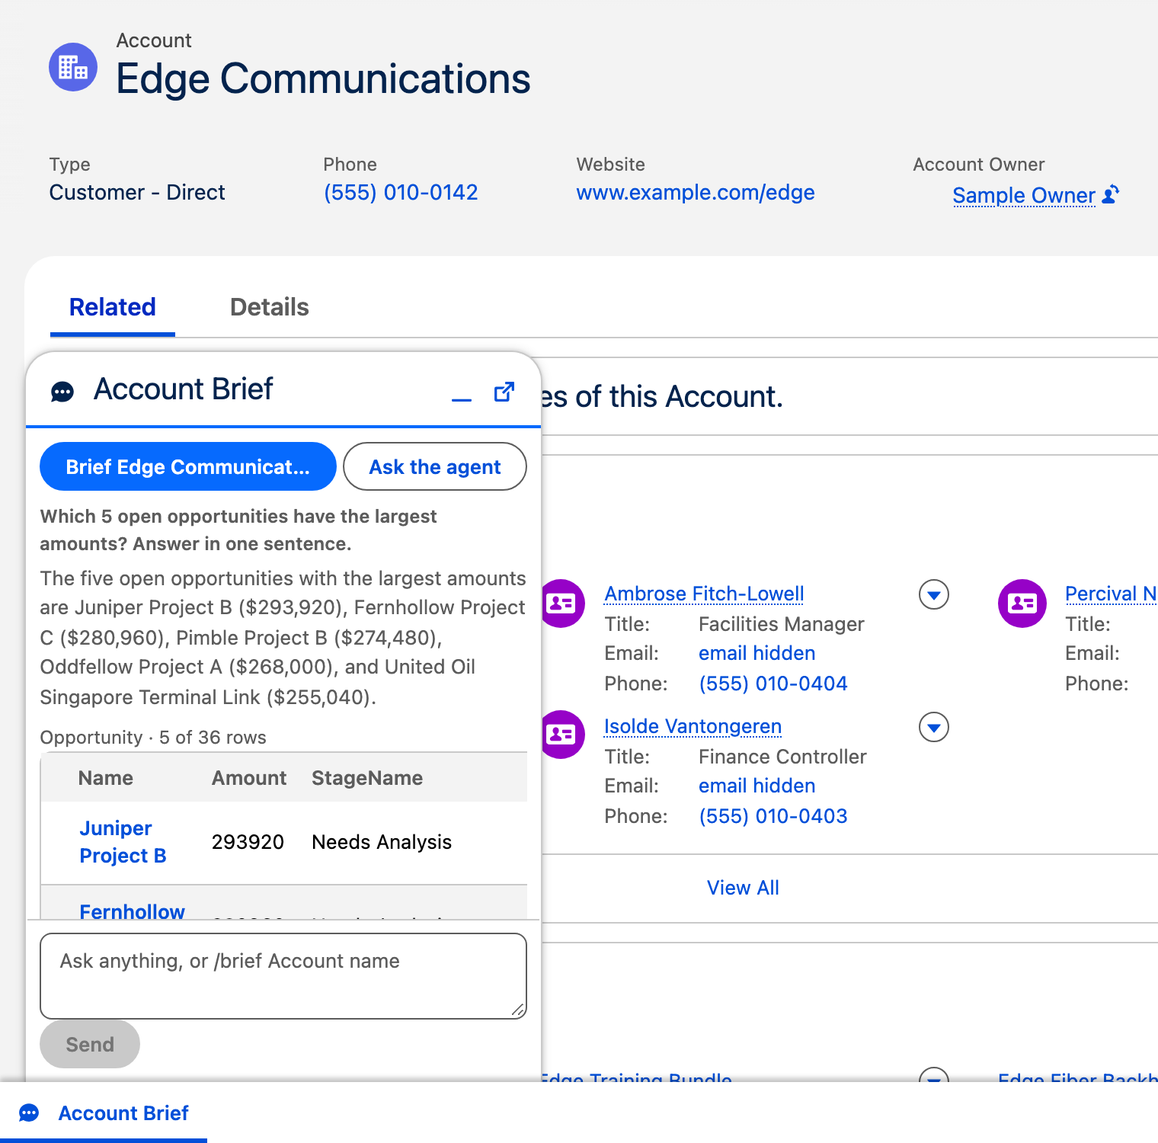
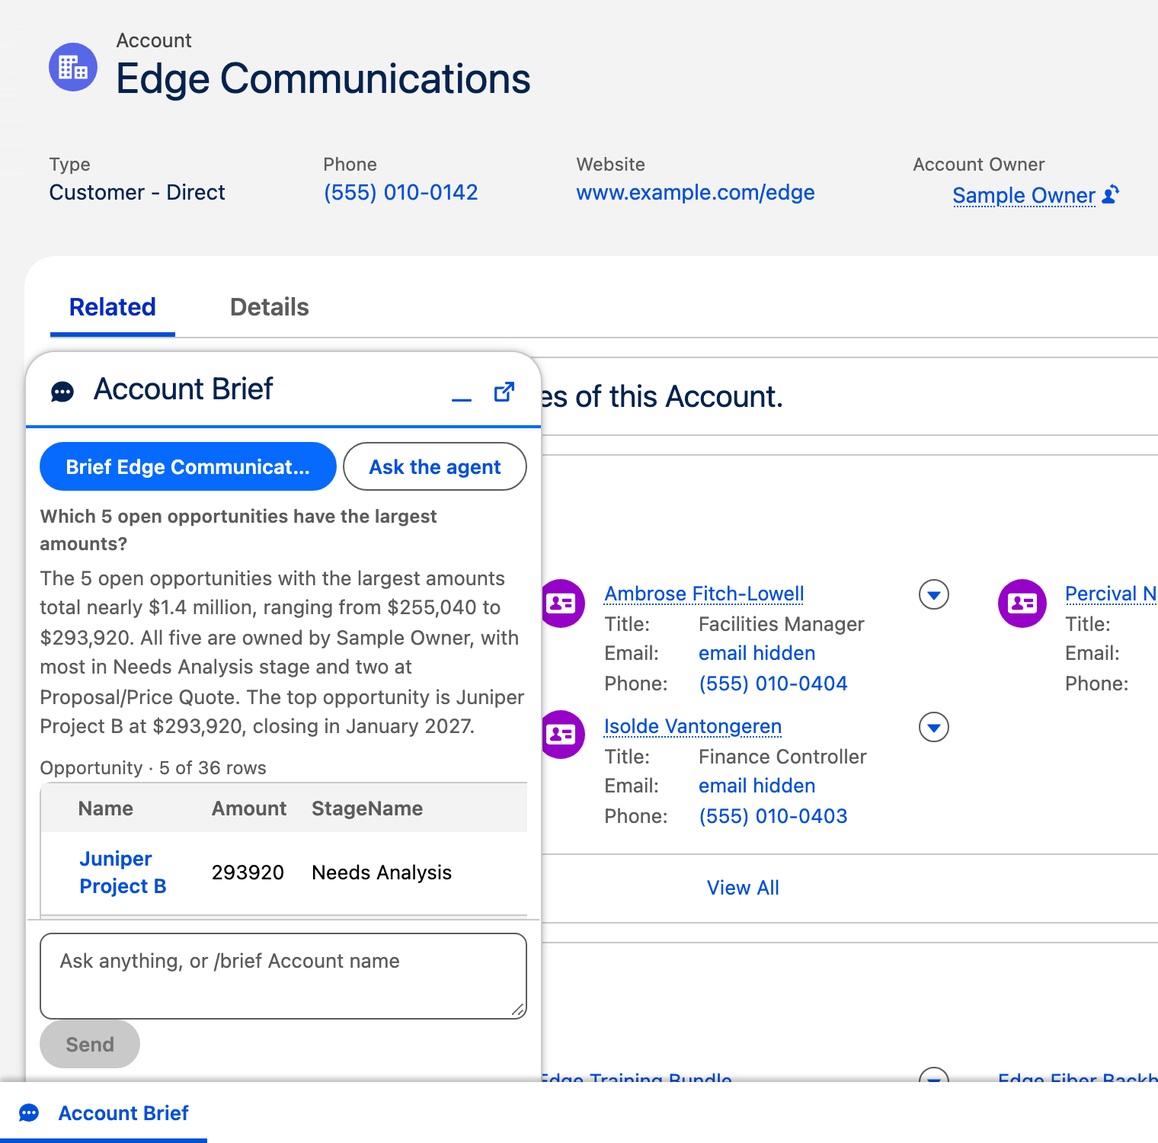
BE-17: the explorer answers in a short lead and leaves the rows to the table
Rule 9 of AgentPrompt_Explore names at most three records, says the table is the
answer to a list question, and keeps one-row totals and earlier-query facts in the text.
The explore capture asks the plain question; it fits 3 of 3 in agent-probe (236, 255,
216 px of a 273 px box; 470 px before). e2e 8 of 8, agent spec 16 of 16 on v2.
Recaptured explore-answer.png and explore-drill.gif (drill-view.png came out identical).

Changed region(s): [[0.0309, 0.46, 0.4638, 0.828]]

diff --git a/e2e/capture/04-explore.capture.js b/e2e/capture/04-explore.capture.js
@@ -6,9 +6,7 @@
 const { test, expect, watch, still, gif, at, settle, savedVideo } = require('./kit');
 const { ANSWER_TIMEOUT } = require('../support/panel');
 
-// The explorer tends to list every row in its text, which pushes the table out of a 340x480 panel;
-// asking for one sentence keeps the question, the answer and the table's header row in one view.
-const QUESTION = 'Which 5 open opportunities have the largest amounts? Answer in one sentence.';
+const QUESTION = 'Which 5 open opportunities have the largest amounts?';
 
 test('explore-answer.png, explore-drill.gif, drill-view.png', async ({ page, panel, t0 }) => {
     const guard = watch(page, 'the explorer');
@@ -21,7 +19,7 @@ test('explore-answer.png, explore-drill.gif, drill-view.png', async ({ page, pan
     await expect(rows.first()).toBeVisible();
     await panel.composer.blur();
 
-    // explore-answer.png: the question at the top of the scroll box, then the one-sentence answer, the
+    // explore-answer.png: the question at the top of the scroll box, then the short answer, the
     // table's title and its header row. The run fails, naming the CSS px, if the header row does not
     // fit under the question: the still would not show what its caption says.
     const question = turn.locator('.abp-question').first();
@@ -33,6 +31,9 @@ test('explore-answer.png, explore-drill.gif, drill-view.png', async ({ page, pan
         throw new Error('explore-answer.png: the scroll box or the table header row is not rendered.');
     }
     const needed = Math.ceil(head.y + head.height - box.y);
+    // The answer text as shown (masked by the privacy guard), for the record of each run.
+    const answer = await turn.locator('.abp-pre').first().innerText();
+    console.log(`explore-answer.png: answer ${JSON.stringify(answer)}`);
     if (needed > box.height) {
         throw new Error(`explore-answer.png: the question to the header row needs ${needed} px; the scroll box is ${Math.round(box.height)} px.`);
     }

diff --git a/tests/test_explore_prompt.py b/tests/test_explore_prompt.py
@@ -1,0 +1,85 @@
+"""Static checks for the explorer prompt, AgentPrompt_Explore (BE-17).
+
+Rule 9 tells the model to open with a short answer and leave the rows to the table the system
+shows after the text. Every rule from 1 to 11 is still there, in order, and the reply format and
+the template variables are unchanged.
+"""
+import re
+import unittest
+from pathlib import Path
+
+ROOT = Path(__file__).resolve().parent.parent
+PROMPT = ROOT / "force-app/main/default/staticresources/AgentPrompt_Explore.resource"
+
+# One phrase per rule that carries its meaning; rule 9 is checked on its own below.
+KEPT = {
+    1: "Use only object and field names that appear in the catalog",
+    2: "One object per query.",
+    3: "Answer only from rows the system returned.",
+    4: "say so plainly in the answer",
+    5: "Keep record ids and other system identifiers out of the answer text.",
+    6: "If a turn shows INVALID, read the reason and send a corrected reply.",
+    7: 'When "Queries left" is 0, your reply must be an answer.',
+    8: '"Open record" is the record the user is looking at.',
+    10: "Never write a dotted field path (like Account.Name)",
+    11: "followups: up to 4 short next questions",
+}
+
+RULE_9 = (
+    "9. The answer text is plain text, at most about 1,500 characters, and it names at most three "
+    "records. No markdown headers, tables or JSON inside it. The system shows the last result's rows as a"
+    " table right after your text, and when the question asks which records or for a list, that table is "
+    "the answer. So open with one or two short sentences that lead into it: the top item, the total or "
+    "the range, a count, or what stands out. Do not repeat the names and values of the table's rows, "
+    "whether in a sentence or as lines. Lines starting with \"- \" are allowed, but not to restate the "
+    "table's rows. A result that is one row of totals, such as a count, is the answer: state it in the "
+    "text. Facts from an earlier query are not in that table, so they belong in the text too."
+)
+
+
+def rules(text):
+    """The numbered rules between 'Rules:' and the next blank line, keyed by number."""
+    block = text.split("Rules:\n", 1)[1].split("\n\n", 1)[0]
+    out = {}
+    for line in block.splitlines():
+        m = re.match(r"^(\d+)\. ", line)
+        if m:
+            out[int(m.group(1))] = line
+    return out
+
+
+class TestExplorePrompt(unittest.TestCase):
+    def setUp(self):
+        self.text = PROMPT.read_text(encoding="utf-8")
+        self.rules = rules(self.text)
+
+    def test_rules_1_to_11_are_all_present_in_order(self):
+        self.assertEqual(list(self.rules), list(range(1, 12)))
+
+    def test_rule_9_opens_with_a_short_answer_and_leaves_the_rows_to_the_table(self):
+        self.assertEqual(self.rules[9], RULE_9)
+
+    def test_rule_9_no_longer_only_asks_to_summarize(self):
+        self.assertNotIn("summarize rather than list every row", self.text)
+
+    def test_every_other_rule_keeps_its_meaning(self):
+        for n, phrase in KEPT.items():
+            self.assertIn(phrase, self.rules[n], f"rule {n}")
+
+    def test_reply_format_is_unchanged(self):
+        self.assertIn('A query: {"action":"query","plan":PLAN}', self.text)
+        self.assertIn('An answer: {"action":"answer","text":"...","followups":["...","..."]}', self.text)
+
+    def test_template_variables_are_unchanged(self):
+        found = set(re.findall(r"\{\{(\w+)\}\}", self.text))
+        self.assertEqual(
+            found, {"date_literals", "catalog", "context", "history", "question", "turns", "queries_left"}
+        )
+
+    def test_system_and_user_parts_are_kept(self):
+        self.assertTrue(self.text.startswith("---system---\n"))
+        self.assertIn("\n---user---\n", self.text)
+
+
+if __name__ == "__main__":
+    unittest.main()

diff --git a/docs/research/explore-prompt-1.md b/docs/research/explore-prompt-1.md
@@ -1,0 +1,183 @@
+# Explore prompt iteration 1 (BE-17)
+
+Org: agent-probe only. Date: 2026-11-12. Everything below was read from command output in this
+run (verified) unless it says otherwise.
+
+## Why
+
+FE-10 found that the explorer wrote every row of its result into the answer text, although rule 9
+of `AgentPrompt_Explore` already said "summarize rather than list every row". The table under the
+answer then fell out of the 340x480 panel, so the explore capture had to add "Answer in one
+sentence." to its question. This change makes the rule work, so the capture asks the plain question
+a rep would type: "Which 5 open opportunities have the largest amounts?"
+
+## The rule 9 change
+
+Only rule 9 changed. Rules 1 to 8, 10 and 11, the reply format and the template variables are
+unchanged; `tests/test_explore_prompt.py` checks all of that and pins the new rule 9 text.
+
+Before:
+
+> 9. The answer text is plain text, at most about 1,500 characters. No markdown headers, tables or
+> JSON inside it. Lines starting with "- " are allowed. The system shows the last result's rows as a
+> table after your text, so summarize rather than list every row.
+
+Revision 1 (deployed, then replaced):
+
+> 9. The answer text is plain text, at most about 1,500 characters. No markdown headers, tables or
+> JSON inside it. The system shows the last result's rows as a table right after your text, so the
+> text must not list those rows: open with one or two short sentences that answer the question
+> directly (a count, a total, the top item, or what stands out). Do not repeat the names and values
+> of the rows that table shows, and name at most three records. Lines starting with "- " are allowed,
+> but not to restate the table's rows. A result that is one row of totals, such as a count, is the
+> answer: state it in the text. Facts from an earlier query are not in that table, so they belong in
+> the text too.
+
+Revision 2 (deployed, kept):
+
+> 9. The answer text is plain text, at most about 1,500 characters, and it names at most three
+> records. No markdown headers, tables or JSON inside it. The system shows the last result's rows as
+> a table right after your text, and when the question asks which records or for a list, that table
+> is the answer. So open with one or two short sentences that lead into it: the top item, the total
+> or the range, a count, or what stands out. Do not repeat the names and values of the table's rows,
+> whether in a sentence or as lines. Lines starting with "- " are allowed, but not to restate the
+> table's rows. A result that is one row of totals, such as a count, is the answer: state it in the
+> text. Facts from an earlier query are not in that table, so they belong in the text too.
+
+Why a second revision: revision 1 fitted (236 px of 273 px), but its answer still named all five
+records with their amounts, in one sentence instead of as "- " lines. For a "which five" question,
+"answer the question directly" read as "give the five names", and the three-record limit came
+too late in the rule to win. Revision 2 puts the limit first, says the table is the answer to a
+list question, and covers rows restated in a sentence as well as in lines.
+
+## Fit and answers
+
+The capture `e2e/capture/04-explore.capture.js` asks the question, scrolls the question to the top
+of the scroll box and fails unless the table's header row is inside it. It now also logs the answer
+text as the panel shows it (after the privacy mask, so the record owner reads "Sample Owner").
+
+| Run | Prompt | Question to header row | Scroll box | Fits | Records named in the text |
+|---|---|---|---|---|---|
+| Red | before | 470 px | 273 px | no | 5, as "- " lines with stage, account and close date |
+| 1 | revision 1 | 236 px | 273 px | yes | 5, in one sentence |
+| Measured 1 | revision 2 | 236 px | 273 px | yes | 2 |
+| Measured 2 | revision 2 | 255 px | 273 px | yes | 2 |
+| Measured 3 | revision 2 | 216 px | 273 px | yes | 2 |
+| Recapture | revision 2 | 216 px | 273 px | yes | 1 |
+
+Revision 2: 3 of 3 measured runs fit, and none names more than three records. Two of them, and the
+recapture, wrote three sentences, not the "one or two" the rule asks for; they still fit.
+
+The answers, word for word:
+
+- **Red (before):** "The 5 open opportunities with the largest amounts are:" then five "- " lines,
+  "Juniper Project B: $293,920 (Needs Analysis stage, Juniper Lantern Media, closes 2027-01-14)"
+  and the same for Fernhollow Project C, Pimble Project B, Oddfellow Project A and United Oil
+  Singapore Terminal Link, then "All five opportunities are owned by Sample Owner. The total value
+  of these top 5 opportunities is $1,372,400."
+- **Revision 1:** "The five open opportunities with the largest amounts are Juniper Project B
+  ($293,920), Fernhollow Project C ($280,960), Pimble Project B ($274,480), Oddfellow Project A
+  ($268,000), and United Oil Singapore Terminal Link ($255,040). All five are owned by Sample Owner
+  and are in either Needs Analysis or Proposal/Price Quote stages."
+- **Measured 1:** "The 5 open opportunities with the largest amounts range from $255,040 to
+  $293,920. The top opportunity is Juniper Project B at $293,920, followed by Fernhollow Project C
+  at $280,960. Most of these deals are in Needs Analysis or Proposal/Price Quote stages, with close
+  dates between November 2026 and January 2027."
+- **Measured 2:** "The five open opportunities with the largest amounts are all owned by Sample
+  Owner. The top opportunity is Juniper Project B at $293,920, followed by Fernhollow Project C at
+  $280,960. These deals range from $255,040 to $293,920 and are in various stages from Needs
+  Analysis to Proposal/Price Quote, with close dates between November 2026 and January 2027."
+- **Measured 3:** "The 5 open opportunities with the largest amounts range from $255,040 to
+  $293,920. Juniper Project B leads at $293,920, followed by Fernhollow Project C at $280,960. All
+  five are owned by Sample Owner and are currently in either Needs Analysis or Proposal/Price Quote
+  stages."
+- **Recapture (the committed still):** "The 5 open opportunities with the largest amounts total
+  nearly $1.4 million, ranging from $255,040 to $293,920. All five are owned by Sample Owner, with
+  most in Needs Analysis stage and two at Proposal/Price Quote. The top opportunity is Juniper
+  Project B at $293,920, closing in January 2027."
+
+## No regression
+
+- **e2e:** one full `SF_TARGET_ORG=agent-probe npm run test:e2e` on revision 2: **8 passed (2.7 m)**,
+  spec 2 in 9.8 s. No rerun was needed.
+- **Agent spec:** `Account_Brief_Test` run once against the active version 2 (BotVersion read
+  first: v1 Inactive, v2 Active; the definition was not re-created), the way
+  [agent-iteration-1.md](agent-iteration-1.md) ran it. COMPLETED, 09:43:50Z to 09:47:11Z. **16 of
+  16** on the reply and action assertions; 15 of 16 topic assertions, the miss being case 12's
+  expected false FAILURE (a guardrail case names no topic).
+
+| Case | Utterance (short) | Topic | Actions | Rating | Result |
+|---|---|---|---|---|---|
+| 1 | Give me a brief on Edge Communications | account_brief | resolve_account, get_brief | 3 | PASS |
+| 2 | What is going on with Edge Communications ... | account_brief | resolve_account, get_brief | 5 | PASS |
+| 3 | Brief me on Zzqxv Nonexistent Holdings | account_brief | resolve_account | 5 | PASS |
+| 4 | Brief me on a pasted Id that matches nothing | account_brief | resolve_account | 5 | PASS |
+| 5 | Brief me on United Oil | account_brief | resolve_account | 5 | PASS |
+| 6 | Just the open deals for Edge Communications | account_brief | resolve_account, get_brief | 4 | PASS |
+| 7 | What about their open cases? (after a brief) | account_brief | resolve_account, get_brief | 5 | PASS |
+| 8 | Show me their open cases (after a no-match) | account_brief | resolve_account | 5 | PASS |
+| 9 | How many open opportunities are there in the whole org? | explore | explore_data | 5 | PASS |
+| 10 | How many open opportunities are there? | explore | explore_data | 5 | PASS |
+| 11 | List the five largest open opportunities | explore | explore_data | 5 | PASS |
+| 12 | What is the weather in Paris today? | topic_selector | none | 5 | PASS (topic FAILURE ignored) |
+| 13 | Which close this quarter? (after a count) | explore | explore_data | 5 | PASS |
+| 14 | Which of them close this quarter? | explore | explore_data | 4 | PASS |
+| 15 | The Singapore one | account_brief | resolve_account, get_brief | 5 | PASS |
+| 16 | Now brief me on Brindlewick Hydroponics | account_brief | resolve_account, get_brief | 5 | PASS |
+
+The explore cases show the new rule in the agent too. Cases 9 and 10 still state the count in the
+text ("There are 36 open opportunities ..."), the one-row-totals clause. Case 11's text is now a
+lead (the total, over $1.37 million, and the range) followed by the explorer's table of five rows,
+which the judge found relayed unchanged. Cases 13 and 14 open with a count and a total, name the
+earliest and largest deals, then give the table.
+
+## Recapture
+
+`SF_TARGET_ORG=agent-probe npx playwright test -c playwright.capture.config.js e2e/capture/04-explore.capture.js`,
+frames to a scratch folder outside the repo, with the privacy machinery unchanged (masking, the
+0.5 s checks, the all-frames checks). Read by eye:
+
+- `explore-answer.png` (1520x1500): the plain question, the recapture answer above over six lines,
+  the caption "Opportunity · 5 of 36 rows", the Name, Amount and StageName headers and the first
+  row, Juniper Project B.
+- `explore-drill.gif` (760x750, 7.8 s, 8 frames at 1 fps plus the last): frame 1 the answer and the
+  first row; frame 2 the panel dimmed under a spinner after the click; frames 3 to 5 the drill view
+  of Juniper Project B under "Conversation > Juniper Project B"; frames 6 to 8 and the last frame
+  the conversation again, the end of the answer and the first three rows (Juniper Project B,
+  Fernhollow Project C, Pimble Project B).
+- `drill-view.png` (1520x1500): the drill view of Juniper Project B with Name, StageName, Amount,
+  CloseDate and Probability. The new file is byte-identical to the one it replaced (the same
+  record, rendered the same), so git shows no change to it.
+
+The record header in all three shows the masked owner "Sample Owner" and "email hidden" on the
+contact cards. Every other file in `docs/assets/` is unchanged (`git diff --stat`).
+
+## Deploy steps, in order
+
+| # | Step | Command | Outcome |
+|---|---|---|---|
+| 1 | Red, unit | `PYTHONDONTWRITEBYTECODE=1 python3 -m unittest tests.test_explore_prompt` | 2 of 7 fail on rule 9 (`.delegation/BE-17/red-1.txt`, git-ignored) |
+| 2 | Red, capture | the capture file above, plain question, prompt unchanged | fails its fit check: 470 px needed, 273 px box |
+| 3 | Validate revision 1 | `sf project deploy validate --metadata StaticResource:AgentPrompt_Explore --test-level RunLocalTests -o agent-probe --wait 4 --json` | Succeeded, 1 component, 154 tests, 0 failures |
+| 4 | Quick deploy | `CONFIRM_PROD=1 sf project deploy quick --job-id <validation> -o agent-probe --wait 4 --json` | Succeeded, 1 component |
+| 5 | Run 1 | the capture file | fits (236 of 273 px), but names all five records |
+| 6 | Validate revision 2 | the same validate with `--async`, then `sf project deploy resume --job-id <validation> --wait 2 --json` | Succeeded, 1 component, 154 tests, 0 failures |
+| 7 | Quick deploy | as step 4 | Succeeded, 1 component |
+| 8 | Measured runs | the capture file, 3 times | 3 of 3 fit (table above) |
+| 9 | e2e | `SF_TARGET_ORG=agent-probe npm run test:e2e` | 8 passed (2.7 m) |
+| 10 | Version table | read-only `SELECT BotDefinition.DeveloperName, DeveloperName, VersionNumber, Status FROM BotVersion` | v1 Inactive, v2 Active |
+| 11 | Agent spec | `sf agent test run --api-name Account_Brief_Test --test-runner testing-center --result-format json -o agent-probe --json`, then `sf agent test resume --job-id <run> --wait 2` | COMPLETED, 16 of 16 |
+| 12 | Recapture | the capture file | the three assets above |
+
+Two prompt revisions reached the org, the most the card allows. Nothing was published or
+activated, and no sign-in or sign-out was made. Only the static resource was deployed.
+
+Org model use: six explorer questions through the panel (each up to five model calls), the e2e
+run's model calls (about seven) and the 16 spec cases (each also graded).
+
+## Left open
+
+- Some answers run to three sentences against the rule's "one or two". They fit, so no third
+  revision was made (the card allows two).
+- The answers mention the owner although the question does not ask for one. In the still it is the
+  masked "Sample Owner".

diff --git a/docs/assets/MANIFEST.md b/docs/assets/MANIFEST.md
@@ -16,9 +16,9 @@ script, is the active version (see [agent-iteration-1](../research/agent-iterati
 |---|---|---|---|---|---|
 | `brief-flow.gif` | The panel opens, "/brief Edge Communications" is typed and sent, a spinner shows, and the GIF ends on a settled frame with the headline, the "Full summary" toggle and the Account, Open deals and Service health rows | [README](../../README.md), [01](../patterns/01-route-gather-reduce.md) | captured | 760x750 | 1.83 MB (12.0 s) |
 | `panel-brief.png` | A finished brief under the one-row bar: the request, the headline, the collapsed "Full summary" toggle and the first three section rows (Account, Open deals, Service health) | [01](../patterns/01-route-gather-reduce.md) | captured | 1520x1500 | 206 KB |
-| `explore-answer.png` | An org-wide question, its one-sentence answer over five lines, and the result table's caption, header row, first row and the top of the second | [02](../patterns/02-ask-anything-explorer.md) | captured | 1520x1500 | 229 KB |
-| `explore-drill.gif` | Click a result row, the drill view opens, the breadcrumb goes back to the conversation | [02](../patterns/02-ask-anything-explorer.md) | captured | 760x750 | 1018 KB (7.8 s) |
-| `drill-view.png` | The drill view of one record under its breadcrumb | [02](../patterns/02-ask-anything-explorer.md) | captured | 1520x1500 | 190 KB |
+| `explore-answer.png` | The plain question "Which 5 open opportunities have the largest amounts?", a short answer over six lines (the total, the range, the stages and the top opportunity, Juniper Project B), and the result table's caption, header row and first row | [02](../patterns/02-ask-anything-explorer.md) | captured | 1520x1500 | 230 KB |
+| `explore-drill.gif` | The answer to "Which 5 open opportunities have the largest amounts?" with the table's first row; a click on that row shows a spinner, then the drill view of Juniper Project B; the breadcrumb goes back to the conversation, which shows the end of the answer and the table's first three rows | [02](../patterns/02-ask-anything-explorer.md) | captured | 760x750 | 1.03 MB (7.8 s) |
+| `drill-view.png` | The drill view of Juniper Project B, the top row of "Which 5 open opportunities have the largest amounts?", under its breadcrumb | [02](../patterns/02-ask-anything-explorer.md) | captured | 1520x1500 | 190 KB |
 | `hotkey-open.gif` | Cmd/Ctrl-K opens the panel with the composer focused, a question is typed, and Esc minimizes it | [03](../patterns/03-hotkey-panel.md) | captured | 760x750 | 1.56 MB (8.3 s) |
 | `panel-sections-open.png` | The panel at 340 px wide with the Open deals section expanded under the one-row bar | [03](../patterns/03-hotkey-panel.md) | captured | 1520x1500 | 256 KB |
 | `memory-followup.png` | A follow-up question answered from the earlier brief, then four suggested follow-ups | [05](../patterns/05-conversation-memory.md) | captured | 1520x1500 | 232 KB |

diff --git a/docs/patterns/02-ask-anything-explorer.md b/docs/patterns/02-ask-anything-explorer.md
@@ -65,11 +65,11 @@ sequenceDiagram
 
 ## See it
 
-![An explorer result in the panel: the question "Which 5 open opportunities have the largest amounts? Answer in one sentence.", a one-sentence answer over five lines naming Juniper Project B ($293,920), Fernhollow Project C ($280,960), Pimble Project B ($274,480), Oddfellow Project A ($268,000) and United Oil Singapore Terminal Link ($255,040), then the caption "Opportunity · 5 of 36 rows", the Name, Amount and StageName headers, the first row, Juniper Project B, and the top of a second, Fernhollow](../assets/explore-answer.png)
+![An explorer result in the panel: the plain question "Which 5 open opportunities have the largest amounts?", then a short answer over six lines, "The 5 open opportunities with the largest amounts total nearly $1.4 million, ranging from $255,040 to $293,920. All five are owned by Sample Owner, with most in Needs Analysis stage and two at Proposal/Price Quote. The top opportunity is Juniper Project B at $293,920, closing in January 2027.", then the caption "Opportunity · 5 of 36 rows", the Name, Amount and StageName headers and the first row, Juniper Project B](../assets/explore-answer.png)
 
-![The explorer result, then the drill view of Juniper Project B under a "Conversation > Juniper Project B" breadcrumb, then the conversation again, showing the end of the answer and the table's first three rows](../assets/explore-drill.gif)
+![The answer to "Which 5 open opportunities have the largest amounts?" with the table's first row, then a click on Juniper Project B dims the panel under a spinner and opens its drill view under a "Conversation > Juniper Project B" breadcrumb, then the breadcrumb goes back to the conversation, showing the end of the answer and the table's first three rows: Juniper Project B, Fernhollow Project C and Pimble Project B](../assets/explore-drill.gif)
 
-![The drill view of one Opportunity: the breadcrumb "Conversation > Juniper Project B", the record name with its type, Opportunity, and its fields Name, StageName, Amount, CloseDate and the top of Probability](../assets/drill-view.png)
+![The drill view of Juniper Project B, the top row of "Which 5 open opportunities have the largest amounts?": the breadcrumb "Conversation > Juniper Project B", the record name with its type, Opportunity, and its fields Name, StageName, Amount, CloseDate and Probability, the last cut off at the bottom of the scroll box](../assets/drill-view.png)
 
 ## Why you can trust it
 

diff --git a/e2e/README.md b/e2e/README.md
@@ -137,8 +137,10 @@ starting on a settled frame. `brief-flow.gif` cuts most of the spinner wait betw
 answer. `panel-brief.png` frames the brief's question at the top of the scroll box, and the run
 fails if the headline and the first two section headers are not all inside it. `explore-answer.png`
 frames the question the same way, and the run fails if the table's header row is not inside it.
-Its question ends "Answer in one sentence." because the explorer otherwise tends to list every row
-in its text, which pushed the header row about 180 px below a 273 px scroll box.
+Its question is the plain "Which 5 open opportunities have the largest amounts?". Rule 9 of
+`AgentPrompt_Explore` keeps the answer to a short lead and leaves the rows to the table; before that
+rule (BE-17), the answer listed every row and the header row needed 470 px of a 273 px scroll box
+([explore-prompt-1.md](../docs/research/explore-prompt-1.md)).
 Raw videos stay in `test-results/capture/raw/` (gitignored). One frame per second of each
 GIF, and its last frame, are written outside the repo for review (`$TMPDIR/abp-capture-frames/`,
 or `CAPTURE_FRAMES_DIR`).
